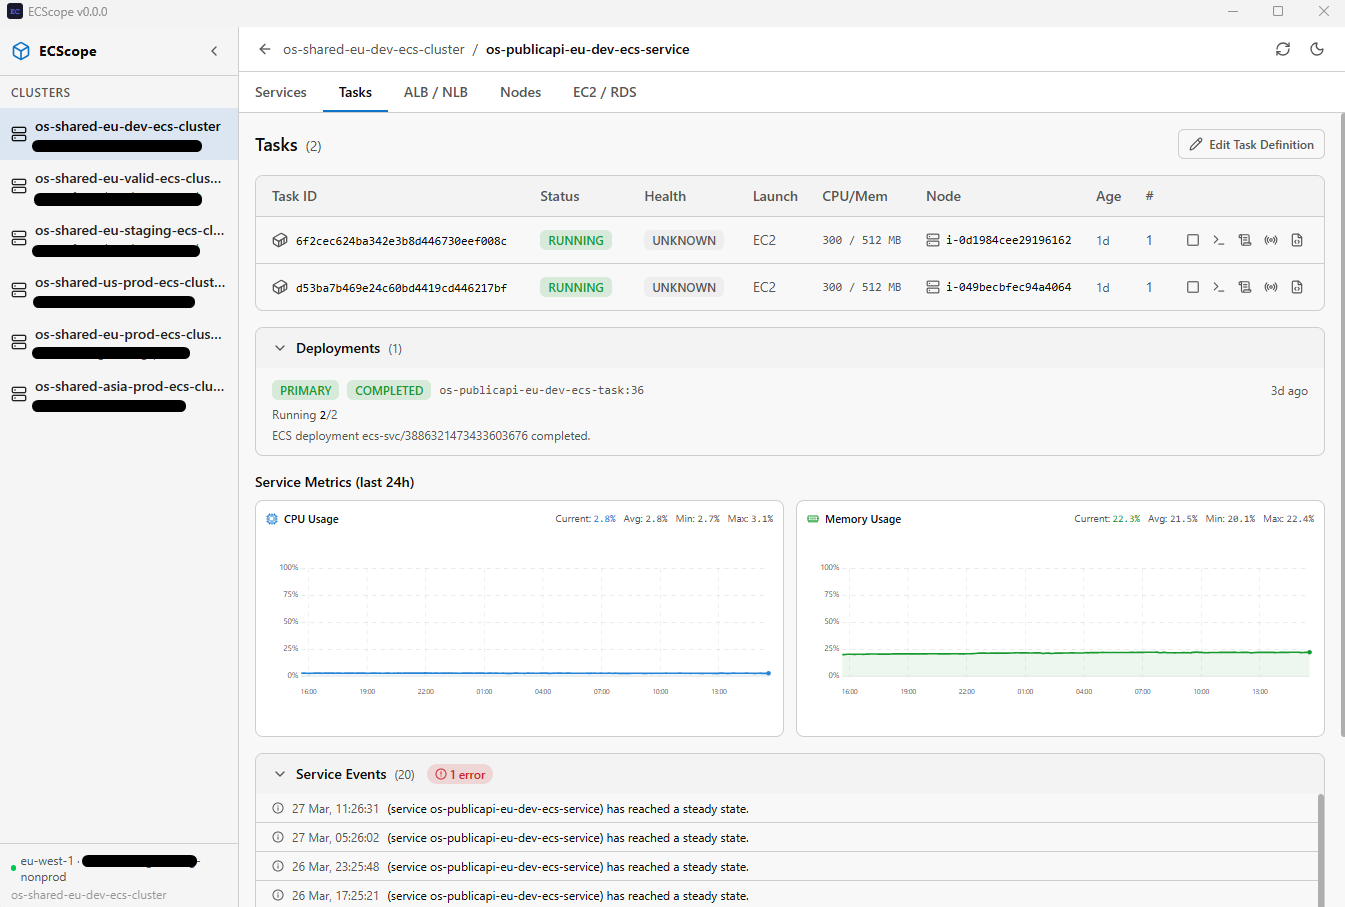
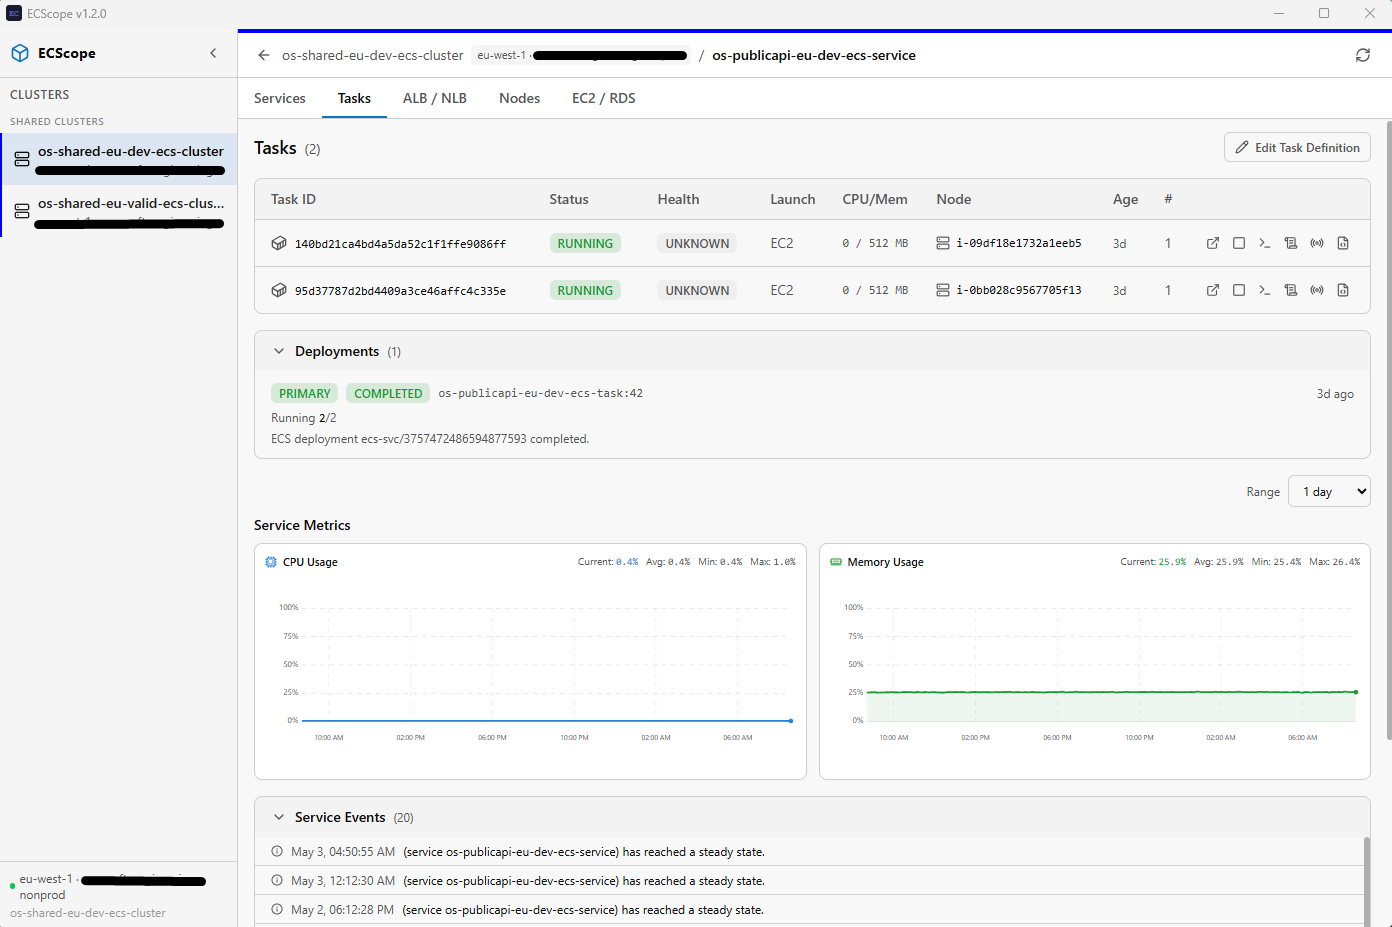
Update documentation with latest changes

diff --git a/README.md b/README.md
@@ -1,6 +1,6 @@
 # ECScope
 
-> **Deep visibility into your AWS ECS workloads**
+> **Deep visibility into your AWS ECS clusters**
 
 ECScope is a modern, cross-platform desktop application for exploring, monitoring, and managing your Amazon ECS infrastructure. It gives you a clear, real-time view of your clusters, services, tasks, load balancers, nodes, and databases — all in one place.
 
@@ -8,14 +8,18 @@ ECScope is a modern, cross-platform desktop application for exploring, monitorin
 
 ## ✨ Features
 
-- **Cluster Explorer** — Browse clusters, services, and tasks with intuitive navigation
-- **Service Viewer** — Monitor status, desired/running tasks, CPU & memory usage; one-click scale up/down
-- **Task Inspector** — View task details, container health, environment variables
-- **Live Logs** — Stream and search CloudWatch logs in real time
-- **ALB / NLB Viewer** — Inspect load balancers, target groups, health checks, and metrics
-- **Node Viewer** — See EC2 container instances, resource usage, and running tasks
-- **Database Dashboard** — Monitor RDS/Aurora CPU, memory, connections, and performance insights
-- **Diagnostics** — Coredump, tcpdump, file download/upload via SSM
+- **Cluster Explorer** — Browse and connect to multiple clusters with group/color/icon customization
+- **Service Viewer** — Monitor status, CPU & memory usage; one-click scale up/down, force deploy, autoscaling controls
+- **Task Inspector** — View task details, container health, environment variables & secrets; ECS exec shell, live container logs, HTTP traffic capture
+- **Task Definition Editor** — Edit task definitions as JSON with validation and one-click deploy
+- **Secret Management** — View and edit secret values in Secrets Manager, redeploy on change
+- **ALB / NLB Viewer** — Inspect load balancers, target groups, health checks, and request/latency/error metrics
+- **Node Viewer** — EC2 container instances, SSM terminal, SFTP file transfer, ASG scaling controls
+- **EC2 / RDS Dashboard** — VPC-filtered EC2 and RDS instances with CloudWatch metrics
+- **Deployment Management** — View deployment history with rollback capability
+- **Metrics Charting** — CloudWatch metrics with configurable time ranges (service, ALB, NLB, EC2, RDS)
+- **Auto-Update** — Checks for new versions and notifies in sidebar
+- **i18n** — English and English with emoji status prefixes
 
 
 ## 🚀 Getting Started
@@ -27,29 +31,44 @@ ECScope is a modern, cross-platform desktop application for exploring, monitorin
 | **AWS CLI** | `msiexec.exe /i https://awscli.amazonaws.com/AWSCLIV2.msi` |
 | **SSM Plugin** | `winget install Amazon.SessionManagerPlugin` |
 
-You also need valid AWS credentials in `~/.aws/credentials` and `~/.aws/config`.
+You need valid AWS credentials in `~/.aws/credentials` and `~/.aws/config`. STS role assumption (`role_arn` + `source_profile`) is supported.
 
 ### Installation
 
-In Release section, download the latest release 
+Download the latest release from the [Releases](https://github.com/o0Zz/ECScope/releases) page (Windows NSIS/MSI, macOS DMG, Linux DEB/AppImage/RPM).
 
 
 ### Configuration
 
-Create an `ecscope.config.json` file at the project root:
+Create an `ecscope.config.json` file next to the executable (or in the current working directory):
 
 ```json
 {
     "refreshPeriodSeconds": 10,
+    "theme": "dark",
+    "language": "en",
+    "updateUrl": "https://raw.githubusercontent.com/o0Zz/ECScope/main/latest.json",
     "clusters": [
         {
             "profile": "my-profile1",
             "region": "eu-west-1",
-            "clusterName": "my-cluster"
+            "clusterName": "my-cluster",
+            "color": "0000ff",
+            "group": "Production",
+            "icon": "🚀"
         }
     ]
 }
 ```
+
+### Global configuration
+
+| Field | Description |
+|-------|-------------|
+| `refreshPeriodSeconds` | Polling interval for data refresh (seconds) |
+| `theme` | `dark` or `light` |
+| `language` | Locale code: `en` or `en-emoji` |
+| `updateUrl` | URL to `latest.json` for auto-update checks (optional) |
 
 ### Cluster configuration
 
@@ -58,17 +77,20 @@ Create an `ecscope.config.json` file at the project root:
 | `profile` | AWS profile name matching a `[profile]` entry in `~/.aws/config` |
 | `region` | AWS region of the cluster |
 | `clusterName` | Name of the ECS cluster as shown in the AWS console |
+| `color` | Hex color code for sidebar display (optional) |
+| `group` | Group name for organizing clusters in sidebar (optional) |
+| `icon` | Emoji or text icon displayed next to cluster name (optional) |
 
 
 
-## 🚀 Developement
+## 🚀 Development
 
 ### Prerequisites
 
 | Tool | Install |
 |------|---------|
-| **Node.js** | https://nodejs.org/en/download |
-| **Rust** | https://rustup.rs/ |
+| **Node.js 22+** | https://nodejs.org/en/download |
+| **Rust (stable)** | https://rustup.rs/ |
 
 ### Build for development
 
@@ -88,19 +110,20 @@ npx tauri build
 ### Fix ESLint 
 
 ```bash
-npx eslint src/ --fix
+npm run lint:fix
 ```
 
 ## 📁 Project Structure
 
 ```
 src/
-├── api/            # AWS SDK clients and API calls
-├── components/     # Shared UI components
-├── config/         # AWS credentials and app configuration
-├── features/       # Feature modules (services, tasks, albnlb, nodes, database)
+├── api/            # AWS SDK clients and domain API modules
+├── components/     # Shared UI components (charts, dialogs, badges)
+├── config/         # AWS credentials (with STS role assumption) and app configuration
+├── features/       # Feature modules (services, tasks, albnlb, nodes, ec2rds, welcome)
+├── i18n/           # Internationalization (en, en-emoji)
 ├── layout/         # App shell (sidebar, tabs, breadcrumb)
-├── lib/            # Utilities and helpers
-└── store/          # Zustand state stores
-src-tauri/          # Tauri/Rust backend
+├── lib/            # Utilities, formatters, logger, update checker
+└── store/          # Zustand state stores (config, navigation)
+src-tauri/          # Tauri/Rust backend (config, SSM, ECS exec, SFTP)
 ```
